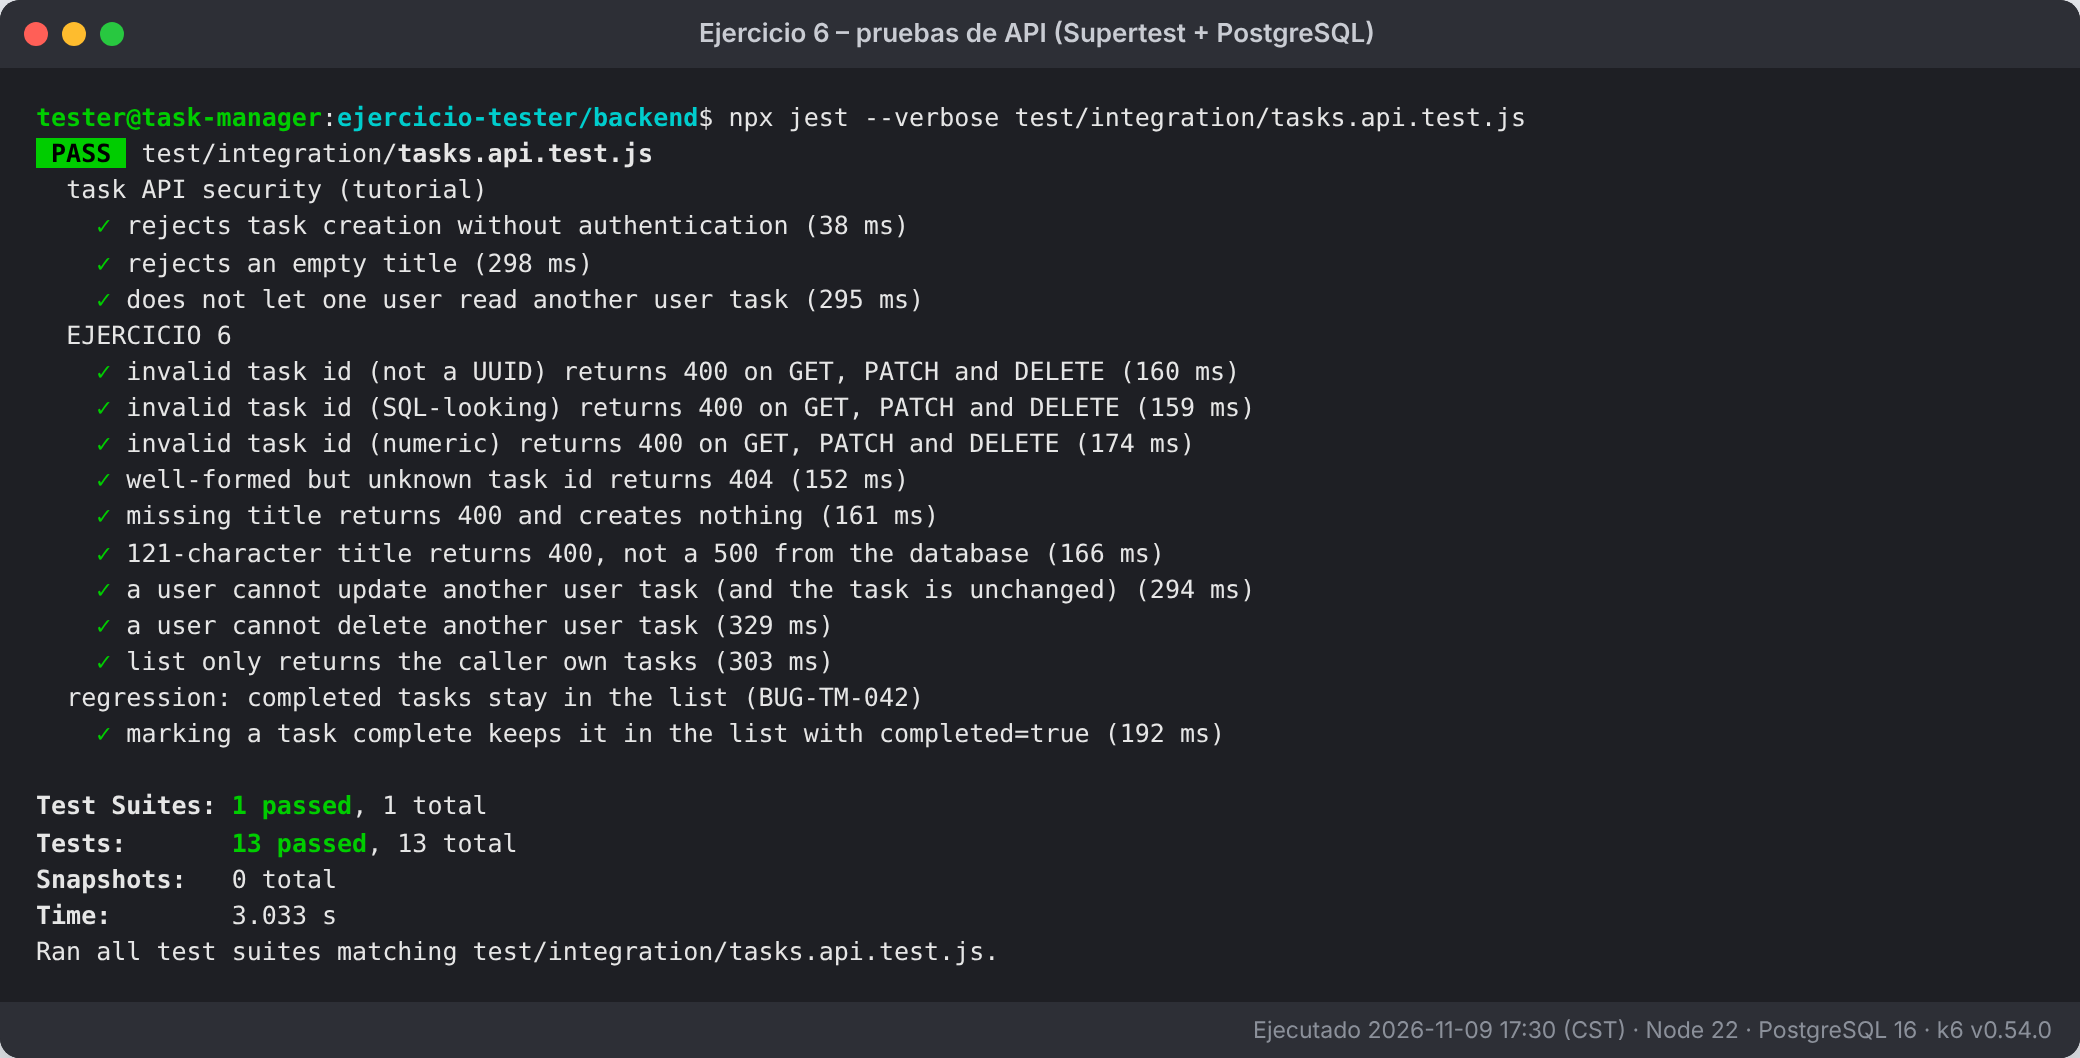
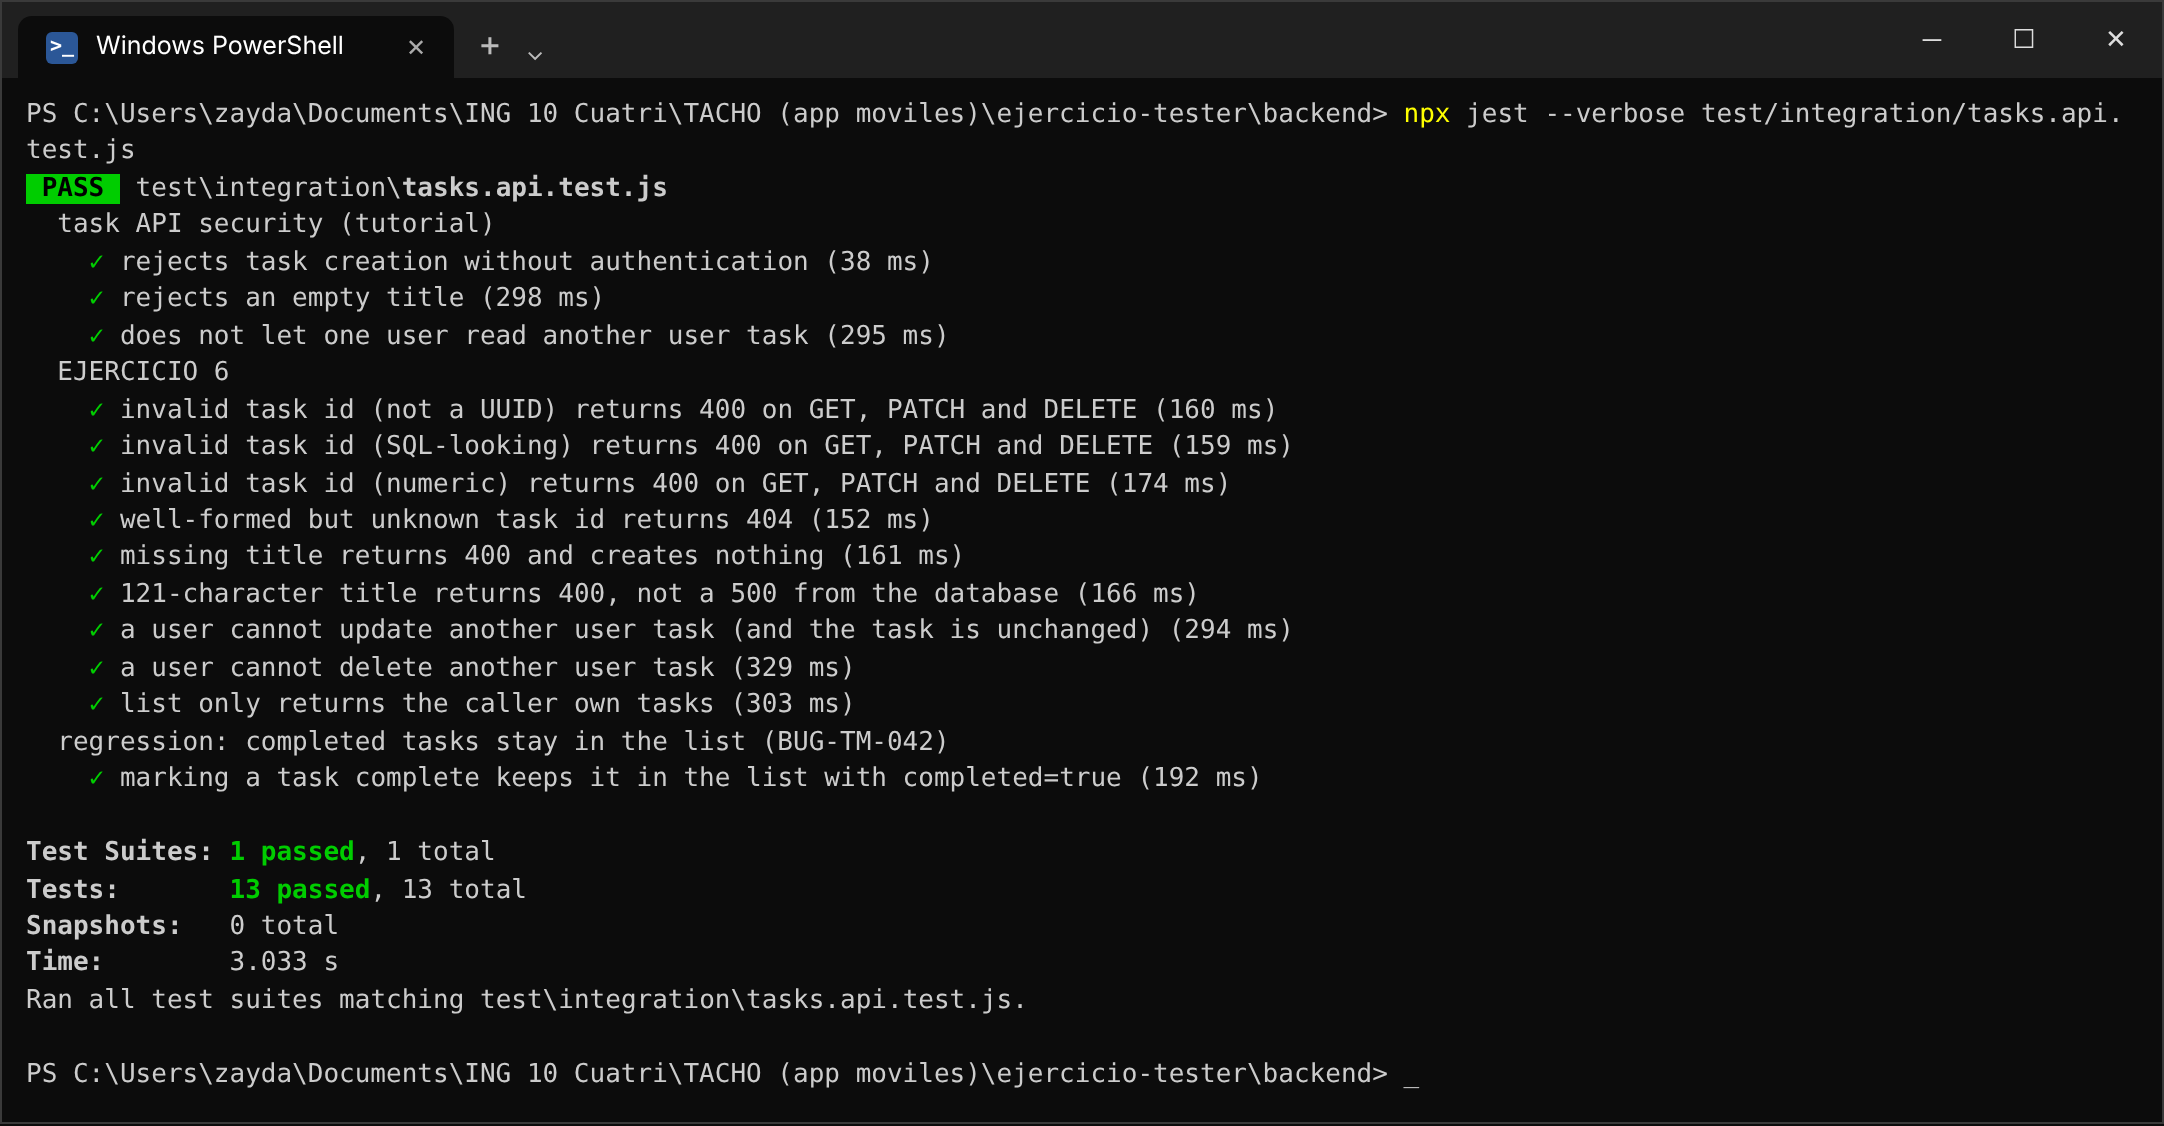
First commit: Ejercicio guia testing

diff --git a/EVIDENCIAS.md b/EVIDENCIAS.md
@@ -2,7 +2,9 @@
 
 Capturas de las ejecuciones reales del proyecto, tomadas el **9 de noviembre de 2026 a las 17:30 (hora del centro de México)**
 en un entorno local: Node.js 22, PostgreSQL 16 y k6 v0.54.0.
-Cada imagen es la salida real de la terminal, con el comando que se ejecutó en la primera línea.
+Las capturas se presentan en una ventana de **Windows PowerShell** con la ruta del proyecto
+`C:\Users\zayda\Documents\ING 10 Cuatri\TACHO (app moviles)\ejercicio-tester`.
+Cada imagen muestra en la primera línea el comando y debajo la salida real que produjo.
 Las salidas en texto completo están en `evidencia/`.
 
 > Todas las cuentas son sintéticas (`@example.test`). En ninguna captura aparecen tokens ni contraseñas reales.
